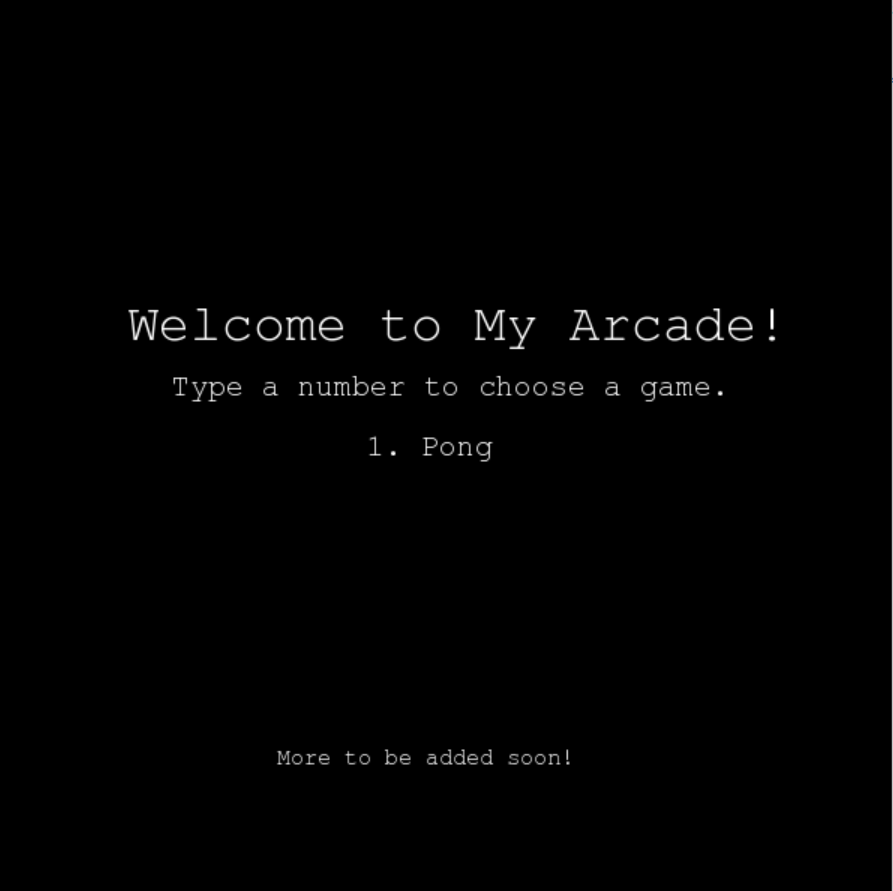
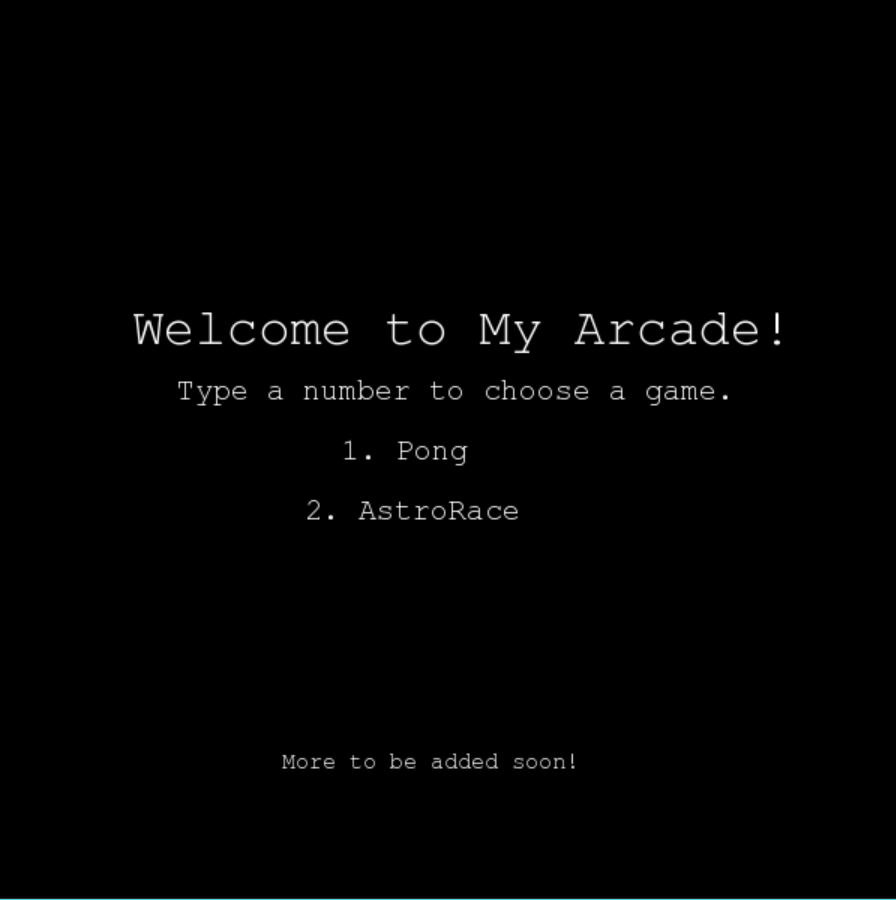
updating projects page

diff --git a/projects.html b/projects.html
@@ -26,7 +26,7 @@
 <br/>
 <h2 class = "projects"> Pygame Arcade </h2>
 <p class = "projects"> Pygame Arcade is a current project I'm working on in Python. Using the <a href = "http://www.pygame.org/hifi.html">pygame module, </a>
-    I've been working on an "arcade" of games, based on retro video games. So far, Pong is the only finished game, but the next one, Astro Race will be done soon! </p>
+    I've been working on an "arcade" of games, based on retro video games. So far, I've made games based on Pong and AstroRace, and look to do more in the future. </p>
 <p class = "githublink"> <a href = "https://github.com/mgrams/Pygame-Arcade"> (github) </a> </p>
 <table>
   <tr>
